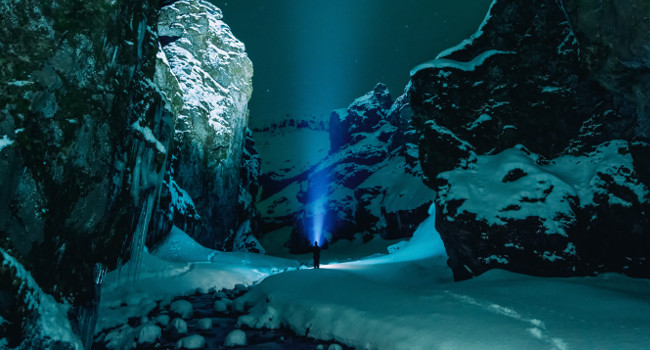
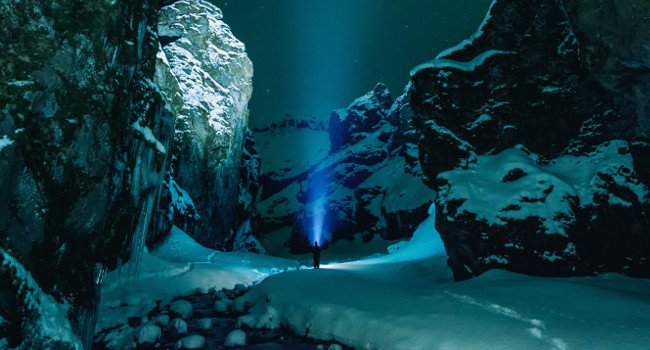
optimize jpgs

Changed region(s): [[0.3385, 0.0857, 0.3692, 0.1143], [0.2769, 0.6, 0.3077, 0.6286], [0.2462, 0.5143, 0.2769, 0.5429]]

diff --git a/index.html b/index.html
@@ -142,7 +142,7 @@
                     <div class="col-lg-6 col-md-6 mx-auto text-center">
                         <img class="img-fluid" src="img/cryptocurrency-market.png" alt="cryptocurrency market at a glance">
                         <br /><br />
-                        <p class="mb-4"><small>Data estimated on 28/01/2018: (1) coinmarketcap.com (2) Google keyword planner<br />(3) cointrendz.com (4) /r/CryptoCurrency sub-reddit (*) own estimate
+                        <p class="mb-4"><small>Cryptocurrency market data estimated on 28/01/2018: (1) coinmarketcap.com<br />(2) Google keyword planner (3) cointrendz.com<br />(4) /r/CryptoCurrency sub-reddit (*) own estimate
                         </small></p>
                     </div>
                 </div>
@@ -244,7 +244,7 @@
                 <h2 class="mb-4">Early Working Prototype</h2>
                 <hr class="my-4">
 
-                <p class="mb-4">Over the last few months we have successfully built a working prototype of Trademindx!</p>
+                <p class="mb-4">Over the last few months we have successfully built a working prototype of Trademindx! It uses machine learning to monitor the cryptocurrency market, determine sentiment and provide trading signals.</p>
 
                 <p class="mb-4">We have been busy developing the full tech stack and testing the TMX token on a local Ethereum blockchain...</p>
 

diff --git a/README.md b/README.md
@@ -3,3 +3,7 @@
 Public Homepage - https://trademindx.com
 
 Based on a modified Creative bootstrap theme by Blackrock Digital LLC.
+
+# image optimization
+
+convert header.jpg -sampling-factor 4:2:0 -strip -quality 85 -interlace JPEG -colorspace sRGB header.jpg
